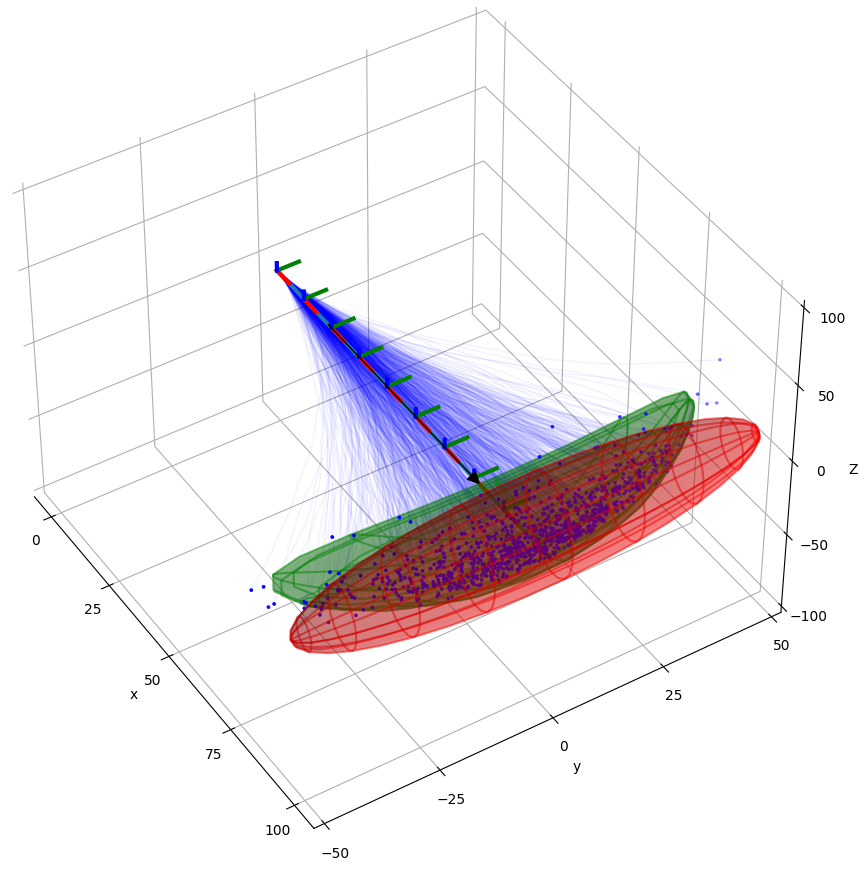
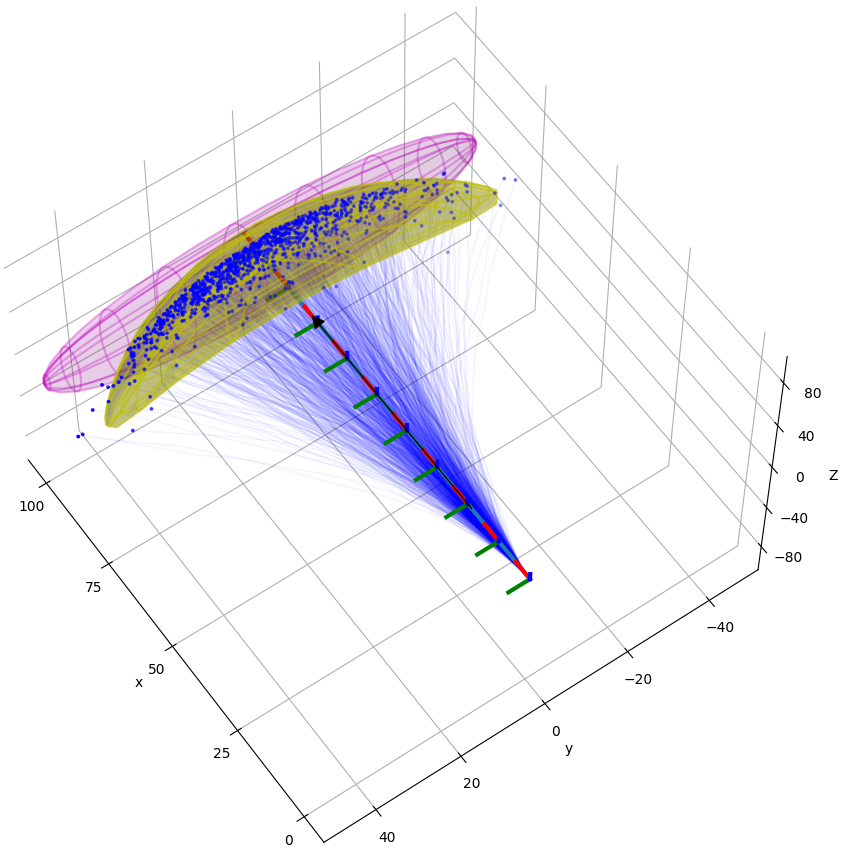
Change colors

diff --git a/talk/slides.tex b/talk/slides.tex
@@ -363,6 +363,7 @@ Application: Uncertain Transformations
 \end{center}
 \end{frame}
 
+\definecolor{darkyellow}{rgb}{0.9, 0.7, 0}
 \begin{frame}[fragile]{Concatenation of Uncertain Transformations}
 \begin{columns}
 \begin{column}{0.4\textwidth}
@@ -381,8 +382,8 @@ Application: Uncertain Transformations
 \begin{itemize}
 \item Uncertainty of angular velocity about z-axis
 \item \textcolor{blue}{Blue}: Monte Carlo (MC) sampling of trajectories
-\item<2-> \textcolor{red}{Red}: Gaussian of MC-sampled final positions
-\item<3-> \textcolor{green}{Green}: Propagated uncertainty in \textit{exponential coordinates}
+\item<2-> \textcolor{magenta}{Magenta}: Gaussian of MC-sampled final positions
+\item<3-> \textcolor{darkyellow}{Yellow}: Propagated uncertainty in \textit{exponential coordinates}
 (\textbf{banana distribution})
 \end{itemize}
 \end{column}
